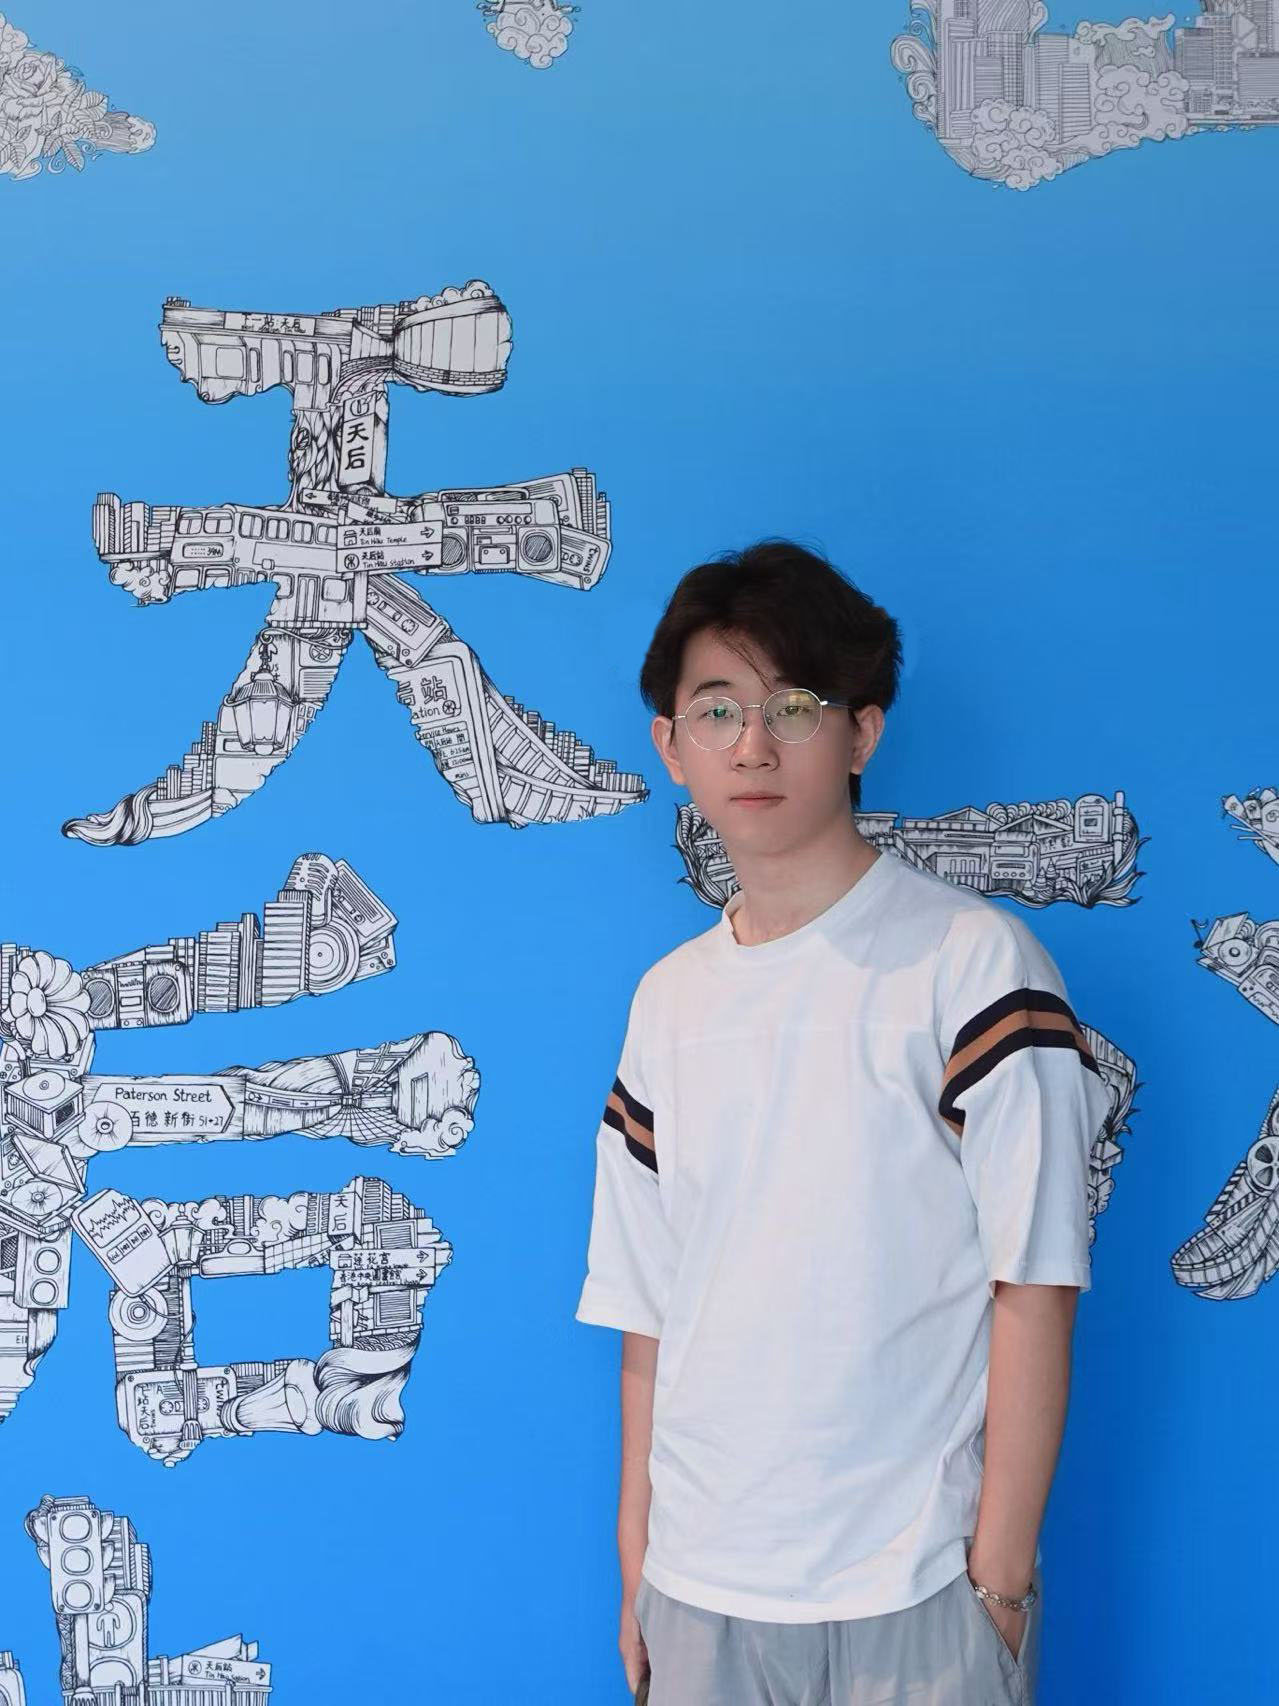
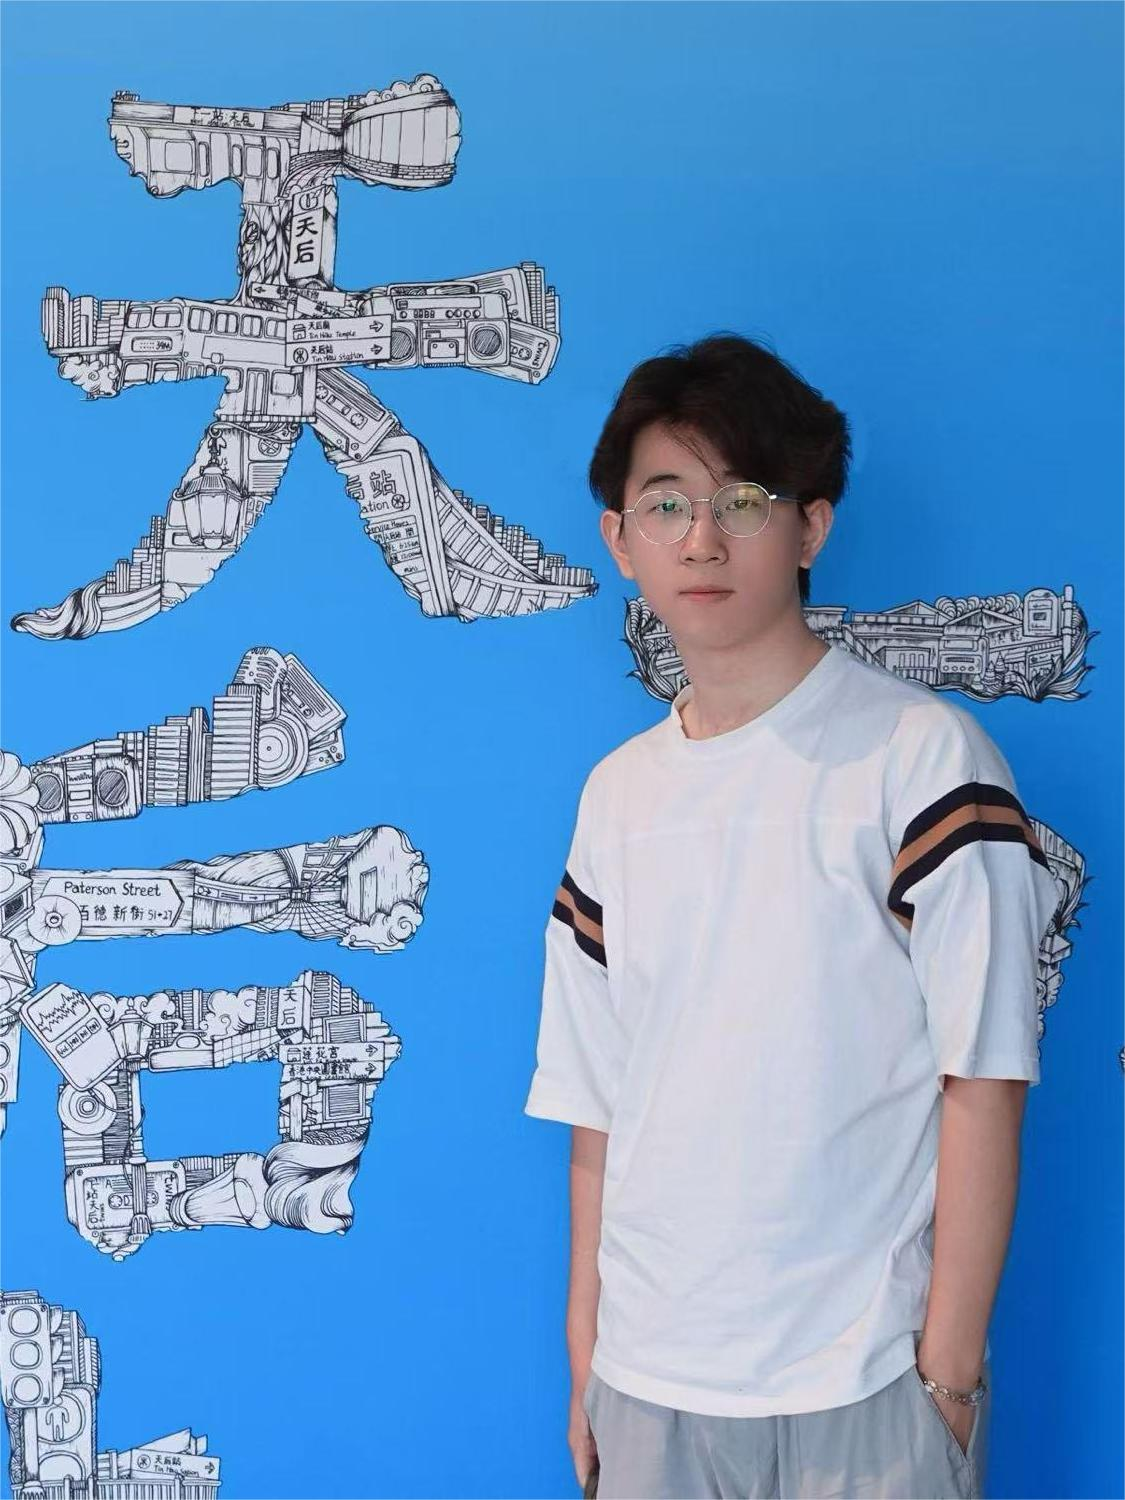
1008

diff --git a/students.html b/students.html
@@ -179,7 +179,7 @@
 						<h3 class="panel-title" style="text-align: center;"><b>Jingxuan Ruan</b></h3>
 					</div>
 					<div style="height:320px; overflow:hidden;">
-						<img src="assets/img/Jingxuan.jpg" alt="Jingxuan Ruan" class="img-responsive" style="width:100%;">
+						<img src="assets/img/Jingxuan2.jpg" alt="Jingxuan Ruan" class="img-responsive" style="width:100%;">
 					</div>
 
 
